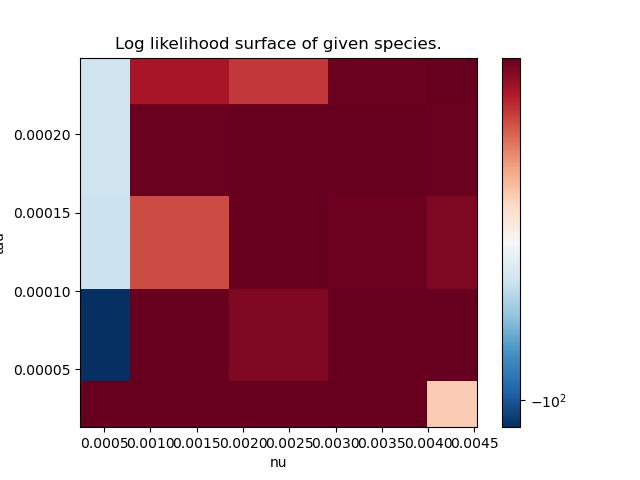
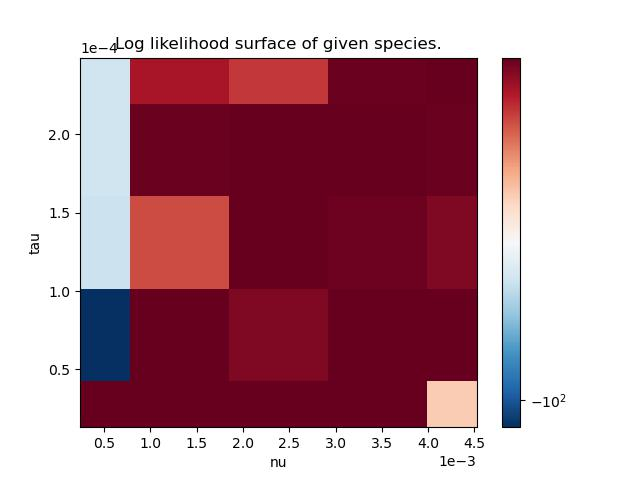
plot likelihood test.

diff --git a/Scripts/plot_likelihood.py b/Scripts/plot_likelihood.py
@@ -468,7 +468,7 @@ class PlotLikelihood():
                 fig.colorbar(c, ax=ax)
                 # ax.set_yscale('log')
                 # ax.set_xscale('log')
-                ax.ticklabel_format(style='sci', axis='both')
+                ax.ticklabel_format(style='sci', scilimits = (0, 0), axis='both')
                 ax.set_title('Log likelihood surface of given species.')
                 ax.set_ylabel('tau')
                 ax.set_xlabel('nu')
